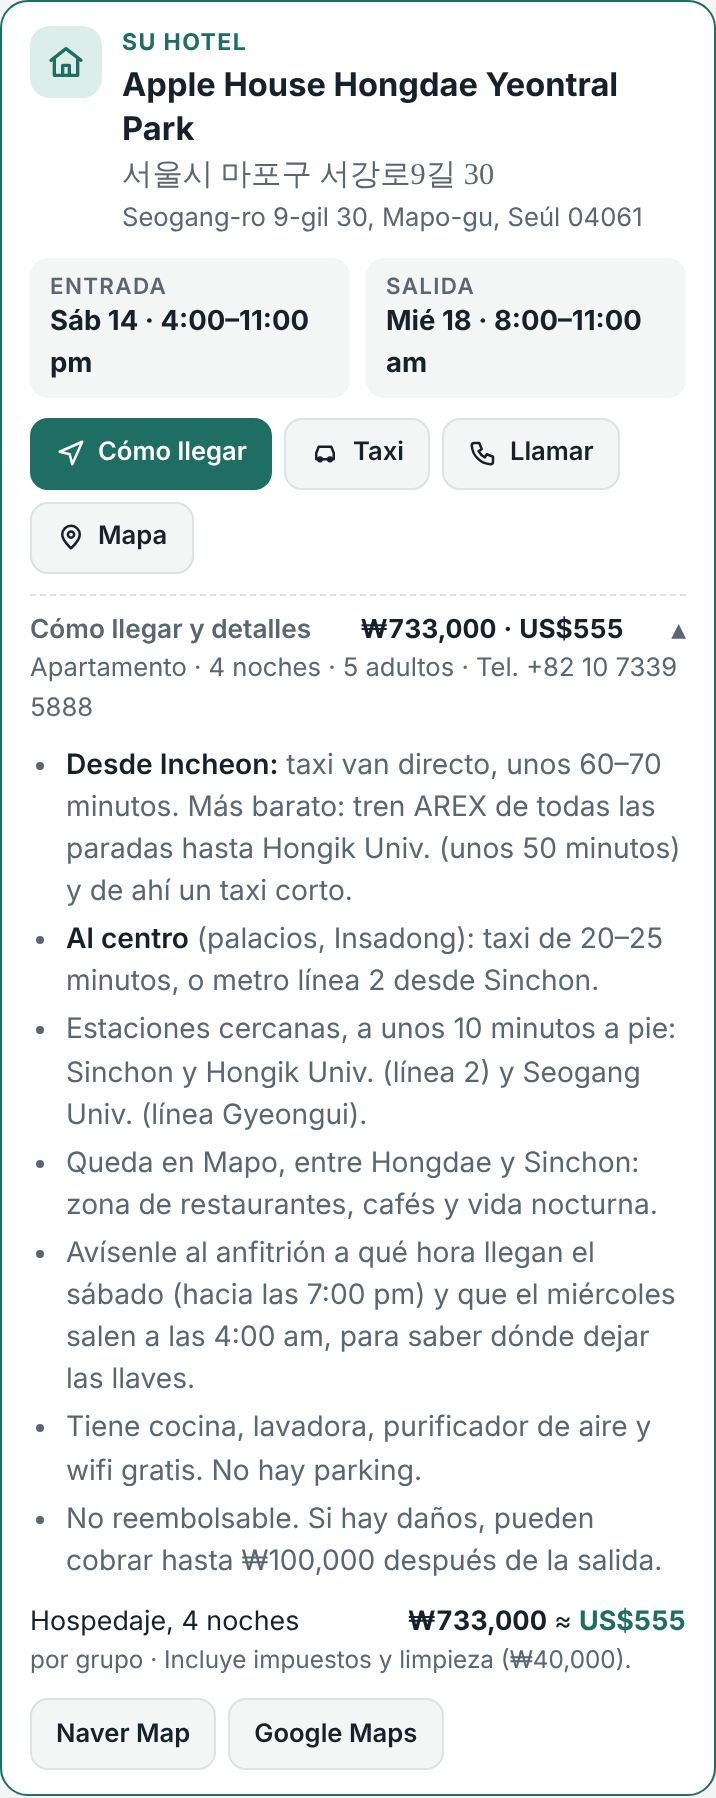
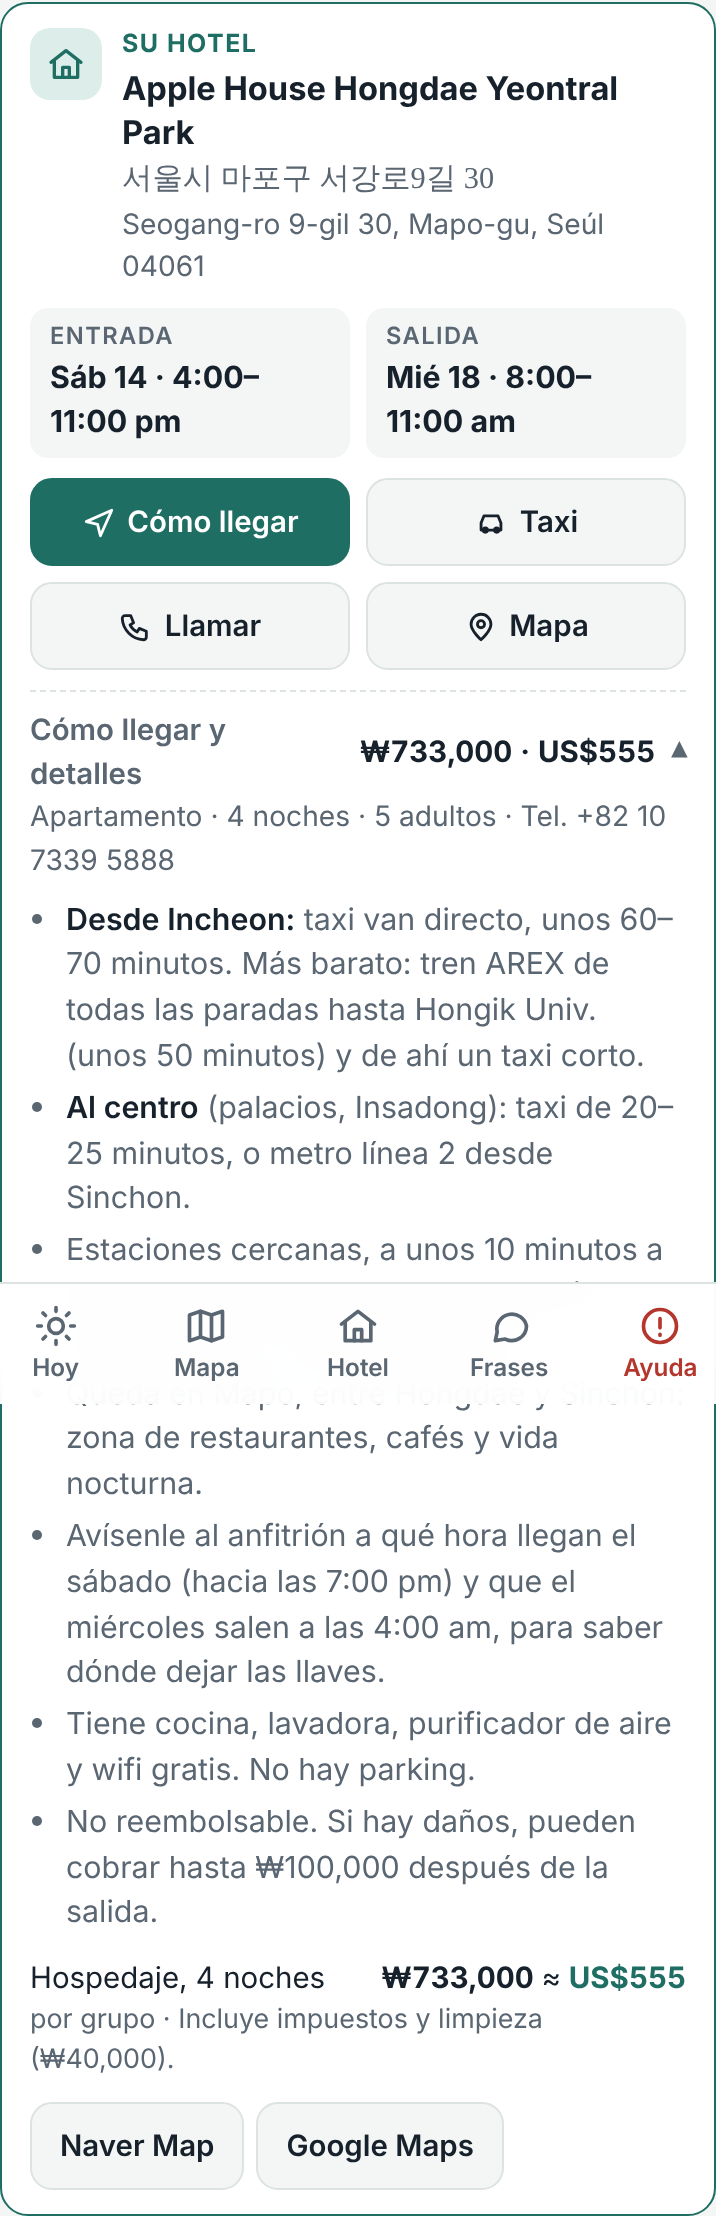
Optimizar para teléfonos (iPhone y Samsung)
Letra y botones más grandes, barra de accesos rápidos abajo, mapa a
pantalla completa, gestos del mapa que no atrapan el scroll, botones
del mapa debajo del mapa y ajustes para áreas seguras.

Claude-Session: https://claude.ai/code/session_01KqURGBLzXGFpJoFqsrjwzE

diff --git a/index.html b/index.html
@@ -89,7 +89,7 @@ h1{font-family:var(--f-display);font-size:clamp(1.15rem,5vw,1.4rem);margin:0;fon
 
 /* map */
 .map-pane{padding-top:12px}
-.map-box{position:relative;height:clamp(300px,46vh,520px);border-radius:14px;overflow:hidden;border:1px solid var(--line);background:var(--map-bg)}
+.map-box{position:relative;isolation:isolate;height:clamp(300px,46vh,520px);border-radius:14px;overflow:hidden;border:1px solid var(--line);background:var(--map-bg)}
 #map{position:absolute;inset:0;background:var(--map-bg);font-family:var(--f-body)}
 #map .leaflet-tile-pane{filter:var(--tile-filter)}
 #map img.leaflet-tile{outline:1px solid transparent}
@@ -246,11 +246,94 @@ tfoot td{font-weight:700;border-bottom:0}
 #show .s-es{margin-top:16px;color:var(--muted);font-size:.9rem}
 #show button{margin-top:26px}
 
+/* ---------- map tools, chip, hint, fullscreen ---------- */
+.map-pane{position:relative}
+.map-tools{position:static;display:grid;grid-template-columns:repeat(3,minmax(0,1fr));gap:6px;margin-top:8px}
+.map-tools .map-btn{flex-direction:column;justify-content:center;gap:3px;min-height:54px;font-size:.8rem;padding:6px 4px;box-shadow:none;white-space:nowrap}
+.map-tools .map-btn svg{width:19px;height:19px}
+.map-tools .close{display:none}
+.map-chip{position:absolute;left:10px;bottom:22px;z-index:600;border:1px solid var(--line);background:var(--surface);color:var(--ink);font:600 .78rem var(--f-body);padding:6px 10px;border-radius:999px;box-shadow:0 1px 4px rgb(0 0 0 / .15);min-height:34px;cursor:pointer}
+.map-hint{position:absolute;left:50%;top:50%;transform:translate(-50%,-50%);z-index:600;background:rgb(0 0 0 / .72);color:#fff;font-size:.9rem;padding:10px 14px;border-radius:12px;text-align:center;max-width:80%;pointer-events:none}
+.map-pane.full{position:fixed;inset:0;z-index:1500;background:var(--bg);display:flex;flex-direction:column;padding:env(safe-area-inset-top,0px) env(safe-area-inset-right,0px) 0 env(safe-area-inset-left,0px)}
+.map-pane.full .map-box{flex:1;height:auto;border-radius:0;border:0}
+.map-pane.full .map-tools{margin:0;padding:8px 10px max(10px,env(safe-area-inset-bottom,0px));background:var(--surface);border-top:1px solid var(--line)}
+.map-pane.full .map-tools .close{display:inline-flex}
+.map-pane.full #mapFull{display:none}
+html.map-full,html.map-full body{overflow:hidden;overscroll-behavior:none}
+/* quick-access bar (phones) */
+.tabbar{display:none}
+button,.btn,.map-btn,.city,.day,.num,summary,.phrase,.copy{-webkit-tap-highlight-color:transparent;touch-action:manipulation}
+.btn:active,.map-btn:active,.city:active,.day:active,.phrase:active,.tabbar button:active{transform:scale(.97)}
+
+/* ---------- phones: bigger text and touch targets ---------- */
+@media (max-width:699px){
+  body{font-size:16px;padding-bottom:calc(64px + env(safe-area-inset-bottom,0px))}
+  .tabbar{display:grid;grid-template-columns:repeat(5,minmax(0,1fr));position:fixed;left:0;right:0;bottom:0;z-index:1200;background:color-mix(in srgb,var(--surface) 94%,transparent);-webkit-backdrop-filter:blur(12px);backdrop-filter:blur(12px);border-top:1px solid var(--line);padding:4px max(6px,env(safe-area-inset-left,0px)) max(4px,env(safe-area-inset-bottom,0px)) max(6px,env(safe-area-inset-right,0px))}
+  .tabbar button{border:0;background:none;display:flex;flex-direction:column;align-items:center;gap:2px;font:600 .76rem var(--f-body);color:var(--muted);padding:6px 0;min-height:52px;cursor:pointer;border-radius:10px}
+  .tabbar .ti svg{width:22px;height:22px;display:block}
+  .tabbar button[data-tab="sos"]{color:var(--d-mon)}
+  .map-box{height:clamp(260px,44vh,460px)}
+  .city{padding:8px 4px;min-height:48px;justify-content:center}
+  .city b{font-size:1rem}
+  .city small{font-size:.74rem}
+  .day{min-height:48px;padding:6px 4px;justify-content:center}
+  .day b{font-size:.92rem}
+  .day small{font-size:.72rem}
+  .progress{font-size:.85rem}
+  .now .eyebrow,.day-head .eyebrow,.hotel .h-eyebrow{font-size:.78rem}
+  .now .line{font-size:.95rem}
+  .now .big{font-size:1.25rem}
+  .day-head h2{font-size:1.45rem}
+  .day-head p,.card p{font-size:1rem}
+  .note{font-size:.95rem}
+  .daycost{font-size:.92rem}
+  .card h3{font-size:1.12rem}
+  .time{font-size:.92rem}
+  .tag{font-size:.7rem}
+  .chip{font-size:.82rem;padding:3px 10px}
+  .btn{font-size:.92rem;min-height:44px;padding:9px 14px;border-radius:11px}
+  .btn svg{width:17px;height:17px}
+  .stop .actions{flex-wrap:nowrap}
+  .stop .actions .btn{padding-inline:12px;flex:0 0 auto}
+  .stop .actions .btn.primary{flex:1 1 auto;min-width:0;justify-content:center;white-space:nowrap;overflow:hidden}
+  .btn.check{min-width:48px;justify-content:center}
+  .hotel .actions{display:grid;grid-template-columns:1fr 1fr;gap:8px}
+  .hotel .actions .btn{justify-content:center}
+  .hotel .h-addr,.hotel .h-kind{font-size:.88rem}
+  .hotel .h-times span{font-size:.74rem}
+  .hotel .h-times b{font-size:.95rem}
+  details.more summary{font-size:.92rem;min-height:44px}
+  .more ul{font-size:.95rem}
+  .cost{font-size:.92rem}
+  .cost .sub{font-size:.84rem}
+  .num{width:32px;height:32px;font-size:.92rem}
+  .guide summary{min-height:44px;font-size:1.12rem}
+  .guide summary small{font-size:.84rem}
+  .guide ul{font-size:.97rem}
+  .phrase{padding:10px 12px;min-height:56px}
+  .phrase .es,.phrase .rom{font-size:.88rem}
+  .phrase .nat{font-size:1.15rem}
+  .phrase .go{font-size:.8rem}
+  .sos-row{font-size:.97rem;padding:8px 0}
+  .sos-row small{font-size:.84rem}
+  .copy{min-height:40px;padding:6px 12px;font-size:.84rem}
+  table{font-size:.9rem}
+  th{font-size:.74rem}
+  .muted{font-size:.88rem}
+  .foot{font-size:.84rem}
+  .pin b{width:30px;height:30px;flex-basis:30px;line-height:30px;font-size:14px}
+  .pin span{font-size:13px}
+  .pop-actions .btn{min-height:44px}
+  .leaflet-control-zoom a{width:40px!important;height:40px!important;line-height:40px!important}
+  .gpop{font-size:15px}
+  .stop,.hotel,.guide > details{scroll-margin-top:calc(var(--hdr) + 12px)}
+}
+@media (max-width:699px) and (max-height:500px){ .map-box{height:70vh} }
+
 /* ---------- very narrow (foldable cover screen) ---------- */
 @media (max-width:360px){
-  body{font-size:14px}
-  .stop{grid-template-columns:28px minmax(0,1fr);gap:8px}
-  .num{width:26px;height:26px;font-size:.78rem}
+  .stop{grid-template-columns:30px minmax(0,1fr);gap:8px}
+  .num{width:30px;height:30px;font-size:.88rem}
   .card{padding:10px 12px}
   .city small{font-size:.62rem}
   .day b{font-size:.8rem}
@@ -263,6 +346,9 @@ tfoot td{font-weight:700;border-bottom:0}
   .map-pane{grid-column:1;grid-row:1;position:sticky;top:0;height:100vh;height:100dvh;padding-block:max(12px,env(safe-area-inset-top,0px)) max(12px,env(safe-area-inset-bottom,0px))}
   .map-box{height:100%}
   .top{top:0}
+  .map-tools{position:absolute;right:22px;top:calc(max(12px,env(safe-area-inset-top,0px)) + 10px);display:flex;flex-direction:column;align-items:flex-end;margin:0;z-index:600}
+  .map-tools .map-btn{min-height:38px;padding:8px 11px;box-shadow:0 1px 4px rgb(0 0 0 / .12)}
+  #mapFull{display:none}
 }
 @media (min-width:1100px){ .app{grid-template-columns:minmax(0,1.4fr) minmax(380px,1fr)} }
 
@@ -276,22 +362,34 @@ tfoot td{font-weight:700;border-bottom:0}
   .app{display:block;padding:0;max-width:none}
   .map-pane{position:fixed;inset:0 0 auto 0;height:env(viewport-segment-height 0 0);padding:max(8px,env(safe-area-inset-top,0px)) 12px 8px;z-index:900;background:var(--bg)}
   .map-box{height:100%}
+  .map-tools{position:absolute;right:20px;top:16px;display:flex;flex-direction:column;align-items:flex-end;margin:0;z-index:600}
+  #mapFull,.tabbar{display:none!important}
   .content{display:block;margin-top:env(viewport-segment-top 0 1);padding-left:16px;padding-right:16px}
   .top{top:env(viewport-segment-top 0 1)}
 }
 @media (prefers-reduced-motion: reduce){*{transition:none!important}}
 </style>
 
+<nav class="tabbar" id="tabbar" aria-label="Accesos rápidos">
+  <button type="button" data-tab="hoy"><span class="ti" data-i="sun"></span>Hoy</button>
+  <button type="button" data-tab="mapa"><span class="ti" data-i="map"></span>Mapa</button>
+  <button type="button" data-tab="hotel"><span class="ti" data-i="home"></span>Hotel</button>
+  <button type="button" data-tab="frases"><span class="ti" data-i="chat"></span>Frases</button>
+  <button type="button" data-tab="sos"><span class="ti" data-i="sos"></span>Ayuda</button>
+</nav>
 <div class="app">
   <div class="map-pane">
     <div class="map-box">
       <div id="map" role="application" aria-label="Mapa con las paradas del día"></div>
       <div class="map-status" id="mapStatus">Cargando mapa…</div>
-      <div class="map-tools">
-        <button class="map-btn" id="fit">Ver todo el día</button>
-        <button class="map-btn" id="nearby" type="button">Dónde estoy</button>
-        <button class="map-btn" id="mapSwitch" type="button" hidden>Mapa sin internet</button>
-      </div>
+      <button class="map-chip" id="mapSwitch" type="button" hidden>Mapa sin internet</button>
+      <div class="map-hint" id="mapHint" hidden>Toquen <b>Ampliar</b> para mover el mapa con un dedo</div>
+    </div>
+    <div class="map-tools">
+      <button class="map-btn close" id="mapClose" type="button">Cerrar</button>
+      <button class="map-btn" id="fit" type="button">Ver todo el día</button>
+      <button class="map-btn" id="nearby" type="button">Dónde estoy</button>
+      <button class="map-btn" id="mapFull" type="button">Ampliar</button>
     </div>
   </div>
   <div class="content">
@@ -690,6 +788,13 @@ const ICON={
   route:'<svg viewBox="0 0 24 24" fill="none" stroke="currentColor" stroke-width="2" stroke-linecap="round" stroke-linejoin="round" aria-hidden="true"><path d="M3 11l18-8-8 18-2-8-8-2z"/></svg>',
   car:'<svg viewBox="0 0 24 24" fill="none" stroke="currentColor" stroke-width="2" stroke-linecap="round" stroke-linejoin="round" aria-hidden="true"><path d="M5 17h14v-5l-2-5H7l-2 5v5z"/><circle cx="8" cy="17" r="1.5"/><circle cx="16" cy="17" r="1.5"/></svg>',
   check:'<svg viewBox="0 0 24 24" fill="none" stroke="currentColor" stroke-width="2.4" stroke-linecap="round" stroke-linejoin="round" aria-hidden="true"><path d="M5 12l5 5 9-10"/></svg>',
+  sun:'<svg viewBox="0 0 24 24" fill="none" stroke="currentColor" stroke-width="2" stroke-linecap="round" aria-hidden="true"><circle cx="12" cy="12" r="4"/><path d="M12 2v2M12 20v2M4.9 4.9l1.4 1.4M17.7 17.7l1.4 1.4M2 12h2M20 12h2M4.9 19.1l1.4-1.4M17.7 6.3l1.4-1.4"/></svg>',
+  map:'<svg viewBox="0 0 24 24" fill="none" stroke="currentColor" stroke-width="2" stroke-linecap="round" stroke-linejoin="round" aria-hidden="true"><path d="M9 4 3 6v14l6-2 6 2 6-2V4l-6 2-6-2z"/><path d="M9 4v14M15 6v14"/></svg>',
+  chat:'<svg viewBox="0 0 24 24" fill="none" stroke="currentColor" stroke-width="2" stroke-linecap="round" stroke-linejoin="round" aria-hidden="true"><path d="M21 12a8 8 0 0 1-11.6 7.1L4 20l1-4.6A8 8 0 1 1 21 12z"/></svg>',
+  sos:'<svg viewBox="0 0 24 24" fill="none" stroke="currentColor" stroke-width="2" stroke-linecap="round" stroke-linejoin="round" aria-hidden="true"><circle cx="12" cy="12" r="9"/><path d="M12 8v5M12 16.5v.5"/></svg>',
+  expand:'<svg viewBox="0 0 24 24" fill="none" stroke="currentColor" stroke-width="2" stroke-linecap="round" stroke-linejoin="round" aria-hidden="true"><path d="M4 9V4h5M20 9V4h-5M4 15v5h5M20 15v5h-5"/></svg>',
+  fit:'<svg viewBox="0 0 24 24" fill="none" stroke="currentColor" stroke-width="2" stroke-linecap="round" stroke-linejoin="round" aria-hidden="true"><path d="M3 8V5a2 2 0 0 1 2-2h3M16 3h3a2 2 0 0 1 2 2v3M21 16v3a2 2 0 0 1-2 2h-3M8 21H5a2 2 0 0 1-2-2v-3"/><circle cx="12" cy="12" r="3"/></svg>',
+  close:'<svg viewBox="0 0 24 24" fill="none" stroke="currentColor" stroke-width="2.2" stroke-linecap="round" aria-hidden="true"><path d="M6 6l12 12M18 6 6 18"/></svg>',
   home:'<svg viewBox="0 0 24 24" fill="none" stroke="currentColor" stroke-width="2" stroke-linecap="round" stroke-linejoin="round" aria-hidden="true"><path d="M3 11l9-7 9 7"/><path d="M5 10v10h14V10"/><path d="M10 20v-6h4v6"/></svg>',
   phone:'<svg viewBox="0 0 24 24" fill="none" stroke="currentColor" stroke-width="2" stroke-linecap="round" stroke-linejoin="round" aria-hidden="true"><path d="M5 4h4l2 5-2.5 1.5a11 11 0 0 0 5 5L15 13l5 2v4a2 2 0 0 1-2 2A16 16 0 0 1 3 6a2 2 0 0 1 2-2"/></svg>',
   pin:'<svg viewBox="0 0 24 24" fill="none" stroke="currentColor" stroke-width="2" stroke-linecap="round" stroke-linejoin="round" aria-hidden="true"><path d="M12 21s-7-6.2-7-11a7 7 0 0 1 14 0c0 4.8-7 11-7 11z"/><circle cx="12" cy="10" r="2.5"/></svg>'
@@ -810,6 +915,7 @@ function leafletProvider(){
     fly(lat,lng,z){ m.flyTo([lat,lng],Math.max(m.getZoom(),z),{duration:.6}); },
     fit(pts){ m.fitBounds(L.latLngBounds(pts),{paddingTopLeft:[40,70],paddingBottomRight:[110,40],maxZoom:16,animate:true}); },
     center(lat,lng,z){ m.setView([lat,lng],z); },
+    setFree(f){ if(f||!L.Browser.touch) m.dragging.enable(); else m.dragging.disable(); },
     setRegion(r){ const R=REGIONS[r];
       m.setMaxBounds(L.latLngBounds(R.bounds).pad(0.15)); m.setMinZoom(R.minZoom);
       mapStatus("Cargando mapa…");
@@ -879,6 +985,7 @@ function googleProvider(){
       m.fitBounds(b,{top:70,left:56,right:120,bottom:40});
       g.event.addListenerOnce(m,"idle",()=>{ if(m.getZoom()>16) m.setZoom(16); }); },
     center(lat,lng,z){ m.setCenter({lat,lng}); m.setZoom(z); },
+    setFree(f){ m.setOptions({gestureHandling:f?"greedy":"cooperative"}); },
     setRegion(){ mapStatus(""); }
   };
 }
@@ -900,6 +1007,7 @@ function useMap(kind,refit){
   if(!MP){ mapStatus("El mapa no cargó. Usen los botones de “Cómo llegar”."); return; }
   if(kind==="g") mapStatus("");
   if(mePos) showMe(mePos,false);
+  MP.setFree(mapFree());
   setMapBtns(); drawMap(false); fitDay(false);
   if(refit) fitDay(true);
 }
@@ -1084,7 +1192,18 @@ function refreshSel(){
   if(MP) MP.ids().forEach(id=>{ const s=STOPS.find(x=>x.id===id); if(!s) return; MP.setHTML(id,pinHTML(s),selected===id?1000:0); });
   setTimeout(declutter,0);
 }
-const wide=()=>matchMedia("(min-width:700px)").matches||matchMedia("(horizontal-viewport-segments: 2)").matches||matchMedia("(vertical-viewport-segments: 2)").matches;
+const mqWide=matchMedia("(min-width:700px)");
+const wide=()=>mqWide.matches||matchMedia("(horizontal-viewport-segments: 2)").matches||matchMedia("(vertical-viewport-segments: 2)").matches;
+const isFull=()=>$(".map-pane").classList.contains("full");
+const mapFree=()=>wide()||isFull();
+function setFull(on,fromPop){
+  if(on===isFull()) return;
+  $(".map-pane").classList.toggle("full",on);
+  document.documentElement.classList.toggle("map-full",on);
+  if(on&&!fromPop) history.pushState({mapFull:1},"");
+  MP&&MP.setFree(mapFree());
+  setTimeout(()=>{ if(mapKind==="l"&&map) map.invalidateSize(false); declutter(); },60);
+}
 function showOnMap(id){
   const s=STOPS.find(x=>x.id===id); if(!s||!MP||s.noMap) return;
   if(s.day!==current){ current=s.day; renderAll(false); }
@@ -1094,6 +1213,7 @@ function showOnMap(id){
   setTimeout(()=>MP&&MP.open(id),700);
 }
 function gotoCard(id){
+  if(isFull()) setFull(false);
   const s=STOPS.find(x=>x.id===id); if(s&&s.day!==current){ current=s.day; renderAll(false); }
   MP&&MP.close(); selected=id; refreshSel();
   const n=$("#stop-"+id); if(n) n.scrollIntoView({behavior:"smooth",block:"start"});
@@ -1111,13 +1231,29 @@ document.addEventListener("click",e=>{
   else if(b.dataset.taxi){ const s=STOPS.find(x=>x.id===b.dataset.taxi); const nm=nativeOf(s); openShow(s.ja?"ここまでお願いします":"여기로 가주세요", plain(nm), s.addr||(nm.match(/\((.*)\)/)||[])[1]||"", s.name+" · muéstrenle esto al taxista"); }
   else if(b.dataset.htaxi){ const H=HOTELS[b.dataset.htaxi]; openShow(b.dataset.htaxi==="seoul"?"여기로 가주세요":"ここまでお願いします", H.addr, H.native.split(" (")[0]+" · "+H.phone, H.name+" · muéstrenle esto al taxista"); }
   else if(b.dataset.hmap){ const H=HOTELS[HOTEL_OF[current]]; if(MP&&H){ if(!wide()) $(".map-box").scrollIntoView({behavior:"smooth",block:"center"}); MP.fly(H.lat,H.lng,16); setTimeout(()=>MP&&MP.open(H.id),700); } }
-  else if(b.dataset.hotel){ MP&&MP.close(); const n=$("#hotelCard"); if(n){ n.querySelector("details").open=true; n.scrollIntoView({behavior:"smooth",block:"start"}); } }
+  else if(b.dataset.hotel){ MP&&MP.close(); if(isFull()) setFull(false); const n=$("#hotelCard"); if(n){ n.querySelector("details").open=true; n.scrollIntoView({behavior:"smooth",block:"start"}); } }
   else if(b.dataset.phr){ const [c,i]=b.dataset.phr.split(":"); const p=PHRASES[c][+i]; openShow("", p[1], p[2], p[0]); }
   else if(b.dataset.copy){ const v=b.dataset.copy; const ok=()=>{b.textContent="Copiado"; setTimeout(()=>b.textContent="Copiar",1500);};
     try{ navigator.clipboard.writeText(v).then(ok,()=>{ const r=document.createRange(); r.selectNodeContents(b.previousElementSibling); const sel=getSelection(); sel.removeAllRanges(); sel.addRange(r); }); }catch(err){ const r=document.createRange(); r.selectNodeContents(b.previousElementSibling); const sel=getSelection(); sel.removeAllRanges(); sel.addRange(r); } }
 });
 $("#fit").onclick=()=>{ MP&&MP.close(); fitDay(true); };
 $("#nearby").innerHTML=ICON.pin+"Dónde estoy"; $("#nearby").onclick=locate;
+$("#fit").innerHTML=ICON.fit+"Ver todo el día";
+$("#mapFull").innerHTML=ICON.expand+"Ampliar"; $("#mapFull").onclick=()=>setFull(true);
+$("#mapClose").innerHTML=ICON.close+"Cerrar"; $("#mapClose").onclick=()=>{ if(history.state&&history.state.mapFull) history.back(); else setFull(false); };
+document.querySelectorAll("#tabbar .ti").forEach(n=>n.innerHTML=ICON[n.dataset.i]);
+addEventListener("popstate",()=>{ if(isFull()) setFull(false,true); });
+mqWide.addEventListener&&mqWide.addEventListener("change",()=>{ if(wide()&&isFull()) setFull(false); MP&&MP.setFree(mapFree()); });
+(()=>{ let shown=false; const box=$(".map-box");
+  box.addEventListener("touchmove",e=>{ if(shown||mapFree()||mapKind!=="l"||e.touches.length!==1) return; shown=true; const h=$("#mapHint"); h.hidden=false; setTimeout(()=>h.hidden=true,2600); },{passive:true}); })();
+$("#tabbar").addEventListener("click",e=>{
+  const b=e.target.closest("[data-tab]"); if(!b) return; const t=b.dataset.tab;
+  if(t==="mapa"){ setFull(true); return; }
+  if(isFull()) setFull(false);
+  if(t==="hoy"){ if(NOW.day&&NOW.day.id!==current) setDay(NOW.day.id,false); scrollTo({top:0,behavior:"smooth"}); return; }
+  if(t==="hotel"){ const n=$("#hotelCard"); if(n) n.scrollIntoView({behavior:"smooth",block:"start"}); return; }
+  const g=$(t==="frases"?"#g-phr":"#g-sos"); g.open=true; g.scrollIntoView({behavior:"smooth",block:"start"});
+});
 $("#mapSwitch").onclick=()=>{ const k=mapKind==="g"?"l":"g"; try{localStorage.setItem("map-kind",k);}catch(e){}
   if(k==="g"){ mapStatus("Cargando Google Maps…"); loadGoogle().then(()=>useMap("g",true)).catch(()=>mapStatus("Google Maps no cargó; sigan con este mapa.")); }
   else useMap("l",true); };
